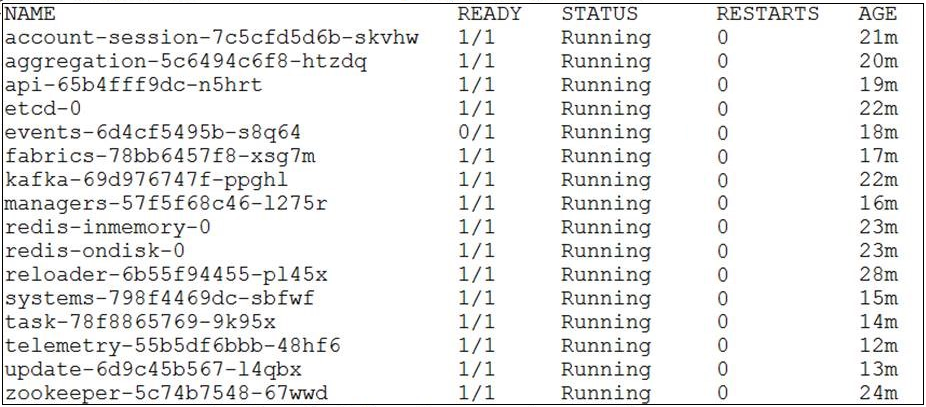
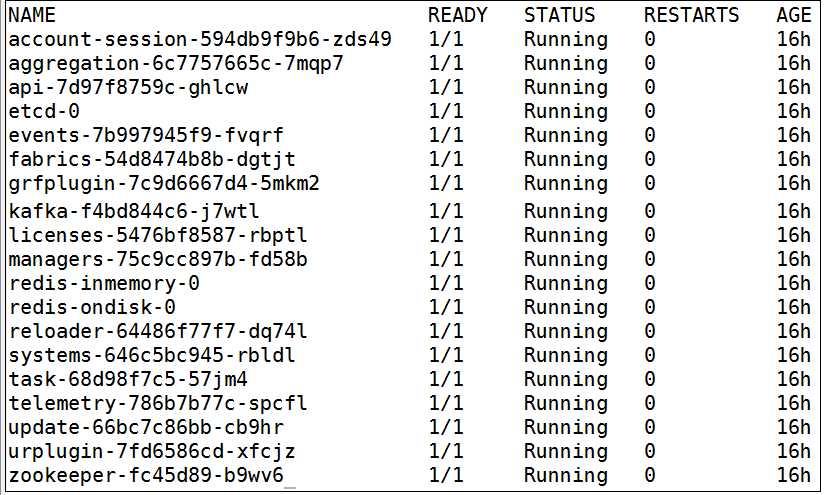
team feedback on backup and restore etcd sections and updated screenshot of service pods

Changed region(s): [[0.0, 0.0, 1.0, 1.0]]

diff --git a/README.md b/README.md
@@ -2088,9 +2088,11 @@ Upgrading the Resource Aggregator for ODIM deployment involves:
    ETCDCTL_API=3 sudo etcdctl endpoint status --write-out=table --endpoints=https://127.0.0.1:2379 --cacert=/etc/ssl/etcd/ssl/ca.pem  --cert=/etc/ssl/etcd/ssl/admin-<hostname>.pem  --key=/etc/ssl/etcd/ssl/admin-<hostname>-key.pem
    ```
 
-   Verify the output on each node. The node with `IS LEADER` value as `true` is the leader node.
+   Replace <hostname> with the host name of the cluster node on which you run the command.
 
-2. Create a backup directory on the leader node and change the ownership and permission of the directory to odimra:
+2. Verify the output on each node. The node with `IS LEADER` value as `true` is the leader node.
+
+3. Create a backup directory on the leader node and change the ownership and permission of the directory to odimra:
 
    ```
    mkdir ~/etcd_backup/
@@ -2098,20 +2100,20 @@ Upgrading the Resource Aggregator for ODIM deployment involves:
    sudo chmod 755 ~/etcd_backup/
    ```
 
-3. Find  the directory of the ca certificate and the node certificates by running the following command on leader node:
+4. Find  the directory of the ca certificate and the node certificates by running the following command on leader node:
 
    ```
    sudo grep ETCDCTL /etc/etcd.env
    ```
 
-4. Copy all the ca certificate and node certificates to the backup directory as a root user:
+5. Copy all the ca certificate and node certificates to the backup directory as a root user:
 
    ```
    sudo -i
    cp /etc/ssl/etcd/ssl/* ~/etcd_backup/
    ```
 
-5. Take the snapshot/backup of the etcd database by running the following command from the etcd leader node:
+6. Take the snapshot/backup of the etcd database by running the following command from the etcd leader node:
 
    ```
    ETCDCTL_API=3  sudo etcdctl snapshot save ~/etcd_backup/etcd_backup.db \
@@ -2121,7 +2123,9 @@ Upgrading the Resource Aggregator for ODIM deployment involves:
     --key=~/etcd_backup/ admin-<leader etcd nodename>-keya.pem
    ```
 
-6. Check the status of the snapshot file “`/etcd_backup/etcd_backup.db` that was created:
+   In the command, replace <leader etcd nodename> appropriately.
+
+7. Check the status of the snapshot file `/etcd_backup/etcd_backup.db` that was created:
 
    ```
    ETCD_API=3 sudo etcdctl snapshot --write-out=table status ~/etcd_backup/etcd_backup.db
@@ -2133,7 +2137,7 @@ Upgrading the Resource Aggregator for ODIM deployment involves:
    | -------- | ------------ | -------------- | -------------- |
    | 107a4572 | 31002        | 1952           | 12 MB          |
 
-7. Move the contents of the backup directory `~/etcd_backup` to a safe location so you can restore the etcd database later.
+8. Move the contents of the backup directory `~/etcd_backup` to a safe location so you can restore the etcd database later.
 
    > Note: For a one node setup, execute the above commands on the cluster node alone.
 
@@ -2147,47 +2151,49 @@ Upgrading the Resource Aggregator for ODIM deployment involves:
    sudo chmod 755 ~/etcd_backup/
    ```
 
-2. Generate the restore files for all nodes. Run the following command on all three nodes after replacing the hostnames and ip addresses appropriately.
+2. Copy all the files that were backed up and moved to a safe location to the directory `~/etcd_backup`.
+
+3. Generate the restore files for all nodes. Run the following command on all three nodes after replacing the hostnames and ip addresses appropriately.
 
    **On etcd node 1**:
 
    ```
-   ETCDCTL_API=3 sudo etcdctl snapshot restore ~/etcd_backup/etcd_backup.db --name etcd1 --initial-cluster  etcd1=https://<IP address of first node>:2380,etcd2=https://<IP address of second node><IP address of first node>:2380,etcd3=https://<IP address of third node>:2380 --initial-cluster-token k8s_etcd  --initial-advertise-peer-urls https://<IP address of first node>:2380
+   ETCDCTL_API=3 sudo etcdctl snapshot restore ~/etcd_backup/etcd_backup.db --name etcd1 --initial-cluster  etcd1=https://<IP address of first node>:2380,etcd2=https://<IP address of second node>,etcd3=https://<IP address of third node>:2380 --initial-cluster-token k8s_etcd  --initial-advertise-peer-urls https://<IP address of first node>:2380
    ```
 
    **On etcd node 2**:
 
    ```
-   ETCDCTL_API=3 sudo etcdctl snapshot restore ~/etcd_backup/etcd_backup.db --name etcd2 --initial-cluster  etcd1=https://<IP address of first node>:2380,etcd2=https://<IP address of second node><IP address of first node>:2380,etcd3=https://<IP address of third node>:2380 --initial-cluster-token k8s_etcd  --initial-advertise-peer-urls https://<IP address of second node>:2380
+   ETCDCTL_API=3 sudo etcdctl snapshot restore ~/etcd_backup/etcd_backup.db --name etcd2 --initial-cluster  etcd1=https://<IP address of first node>:2380,etcd2=https://<IP address of second node>,etcd3=https://<IP address of third node>:2380 --initial-cluster-token k8s_etcd  --initial-advertise-peer-urls https://<IP address of second node>:2380
    ```
 
    **On etcd node 3**:
 
    ```
-   ETCDCTL_API=3 sudo etcdctl snapshot restore ~/etcd_backup/etcd_backup.db --name etcd3 --initial-cluster  etcd1=https://<IP address of first node>:2380,etcd2=https://<IP address of second node><IP address of first node>:2380,etcd3=https://<IP address of third node>:2380 --initial-cluster-token k8s_etcd  --initial-advertise-peer-urls https://<IP address of third node>:2380
+   ETCDCTL_API=3 sudo etcdctl snapshot restore ~/etcd_backup/etcd_backup.db --name etcd3 --initial-cluster  etcd1=https://<IP address of first node>:2380,etcd2=https://<IP address of second node>,etcd3=https://<IP address of third node>:2380 --initial-cluster-token k8s_etcd  --initial-advertise-peer-urls https://<IP address of third node>:2380
    ```
 
-   After the successful restore, directories `~/etcd1.etcd`, `~/etcd2.etcd`, and `~/etcd3.etcd` are created on the three nodes respectively.
+   After a successful restore, directories `~/etcd1.etcd`, `~/etcd2.etcd`, and `~/etcd3.etcd` are created on the three nodes respectively.
 
-3. Stop all the Kube services (kube-apiserver, kube-controller, kube-schedule) on all the cluster nodes by running the following command:
+4. Stop all the Kube services (kube-apiserver, kube-controller, kube-schedule) on all the cluster nodes by running the following command:
 
    ```
    sudo mv /etc/kubernetes/manifests/*.yaml ~/etcd_backup/
    ```
-   
-4. Stop the etcd service on all the cluster nodes:
+
+5. Stop the etcd service on all the cluster nodes:
 
    ```
    sudo systemctl stop etcd
    ```
 
-5. Move the current member directory to a backup member directory on all the three cluster nodes:
+6. Move the current member directory to a backup member directory on all the three cluster nodes:
 
    ```
    sudo mv /var/lib/etcd/member /var/lib/etcd/member.bkp
    ```
 
-6. Restore the snapshot etcd db files to directory `/var/lib/etcd` on all the three cluster nodes by running the following commands:
+7. Restore the snapshot etcd db files to directory `/var/lib/etcd` on all the three cluster nodes by running the following commands:
 
    **On node 1**:
 
@@ -2210,19 +2216,19 @@ Upgrading the Resource Aggregator for ODIM deployment involves:
    For one-node cluster deployment, run the following command:
 
    ```
-   sudo mv default.etcd/member /var/lib/etcd
+   sudo mv ~/default.etcd/member /var/lib/etcd
    ```
 
-7. Start the etcd service on cluster nodes:
+8. Start the etcd service on cluster nodes:
 
    ```
    sudo systemctl start etcd
    ```
 
-8. Restart all the kube services on all the three cluster nodes:
+9. Restart all the kube services on all the three cluster nodes:
 
    ```
-   sudo mv etcd_backup/*.yaml /etc/kubernetes/manifests/
+   sudo mv ~/etcd_backup/*.yaml /etc/kubernetes/manifests/
    ```
 
 > NOTE: For a one-node setup, execute the above commands on the single cluster node.
@@ -2238,16 +2244,17 @@ Upgrading the Resource Aggregator for ODIM deployment involves:
    ```
    kubectl exec -it <etcd pod name> bash -nodim
    ```
+   Replace <etcd pod name> appropriately.
 
    ```
    /opt/etcd/bin/etcdctl endpoint status --write-out=table --endpoints=https://etcd1:2379 --cacert=/opt/etcd/conf/rootCA.crt --cert=/opt/etcd/conf/odimra_etcd_server.crt --key=/opt/etcd/conf/odimra_etcd_server.key
    ```
 
-   Replace etcd1:2379 with etcd2 and etcd3 respectively on second and third cluster nodes.
+   Replace etcd1 with etcd2 and etcd3 respectively on second and third cluster nodes.
 
-   Verify the output on each node. The node with `IS LEADER` value as `true` is the leader node.
+2. Verify the output on each node. The node with `IS LEADER` value as `true` is the leader node.
 
-2. Create a backup directory on the leader node and change the ownership and permission of the directory to odimra:
+3. Create a backup directory on the leader node and change the ownership and permission of the directory to odimra:
 
    ```
    mkdir ~/etcd_odim_backup/
@@ -2255,7 +2262,7 @@ Upgrading the Resource Aggregator for ODIM deployment involves:
    sudo chmod 755 ~/etcd_odim_backup/
    ```
 
-3. Navigate to the `/home/odimra` directory and take the backup by running the following command inside etcd leader pod:
+4. Navigate to the `/home/odimra` directory and take the backup by running the following command inside etcd leader pod:
 
    ```
    cd /home/odimra
@@ -2268,7 +2275,7 @@ Upgrading the Resource Aggregator for ODIM deployment involves:
 
    Verify the backup file `etcd_backup.db` is available in `/home/odimra` directory.
 
-4. Check the status of the snapshot file “`~/etcd_backup.db` that was created:
+5. Check the status of the snapshot file “`~/etcd_backup.db` that was created:
 
    ```
    /opt/etcd/bin/etcdctl  snapshot status --write-out=table ~/etcd_backup.db
@@ -2280,7 +2287,7 @@ Upgrading the Resource Aggregator for ODIM deployment involves:
    | -------- | ------------ | -------------- | -------------- |
    | b31cc840 | 13           | 19             | 25KB           |
 
-5. Take the file `~/etcd_backup.db` out of the etcd leader pod to safe location which can be used to restore the etcd database later. Run the following command from one of the cluster node:
+6. Take the file `~/etcd_backup.db` out of the etcd leader pod to safe location which can be used to restore the etcd database later. Run the following command from one of the cluster node:
 
    ```
    sudo kubectl cp odim/<leader etcd pod name>:/home/odimra/etcd_backup.db ~/etcd_odim_backup/etcd_backup.db
@@ -2297,13 +2304,15 @@ Upgrading the Resource Aggregator for ODIM deployment involves:
    sudo chmod 755 ~/etcd_odim_backup/
    ```
 
-2. Copy the backup file inside the etcd container from the cluster node:
+2. Copy the file that was backed up and moved to safe location to the directory `~/etcd_odim_backup` on one of the cluster nodes.
+
+3. Copy the backup file inside the etcd container from the cluster node:
 
    ```
    kubectl cp ~/etcd_odim_backup/etcd_backup.db odim/<leader etcd container name>:/home/odimra/etcd_backup.db
    ```
 
-3. Login to the leader etcd container and restore the backed up etcd configuration:
+4. Login to the leader etcd container and restore the backed up etcd configuration:
 
    ```
    kubectl exec -it <leader etcd container name>  bash -nodim
@@ -2317,21 +2326,21 @@ Upgrading the Resource Aggregator for ODIM deployment involves:
    /opt/etcd/bin/etcdctl snapshot restore /home/odimra/etcd_backup.db --endpoints=https://etcd:2379  --cacert=/opt/etcd/conf/rootCA.crt  --cert=/opt/etcd/conf/odimra_etcd_server.crt  --key=/opt/etcd/conf/odimra_etcd_server.key
    ```
 
-4. Verify that a directory by name `default.etcd` is created under `/home/odimra` in the leader etcd container. 
+5. Verify that a directory by name `default.etcd` is created under `/home/odimra` in the leader etcd container. 
 
-5. Copy the restored directory `/home/odimra/default.etcd` from the leader etcd container to the Kubernetes cluster node.
+6. Copy the restored directory `/home/odimra/default.etcd` from the leader etcd container to the Kubernetes cluster node.
 
    ```
    kubectl cp odim/<leader etcd container name>:/home/odimra/default.etcd/member" ~/etcd_odim_backup/member
    ```
 
-6. Copy the restored directory `~/etcd_odim_backup/member` from Kubernetes cluster node to the remaining two etcd nodes.
+7. Copy the restored directory `~/etcd_odim_backup/member` from Kubernetes cluster node to the remaining two etcd nodes.
 
    ```
    kubectl cp ~/etcd_odim_backup/member odim/<etcd container name>:/home/odimra/member
    ```
 
-7. Login to leader etcd container first and move the restored directory `member` to `/opt/etcd/data`.
+8. Login to leader etcd container first and move the restored directory `member` to `/opt/etcd/data`.
 
    ```
    kubectl exec -it <leader etcd container name>  bash -nodim
@@ -2340,13 +2349,9 @@ Upgrading the Resource Aggregator for ODIM deployment involves:
    cp -r /home/odimra/member /opt/etcd/data/member
    ```
 
-8. Repeat step 7 on other 2 etcd containers.
+9. Repeat step 8 on other 2 etcd containers.
 
 > NOTE: For a one node setup, execute the above commands on the cluster node alone.
-
-
-
-
 
 
 
